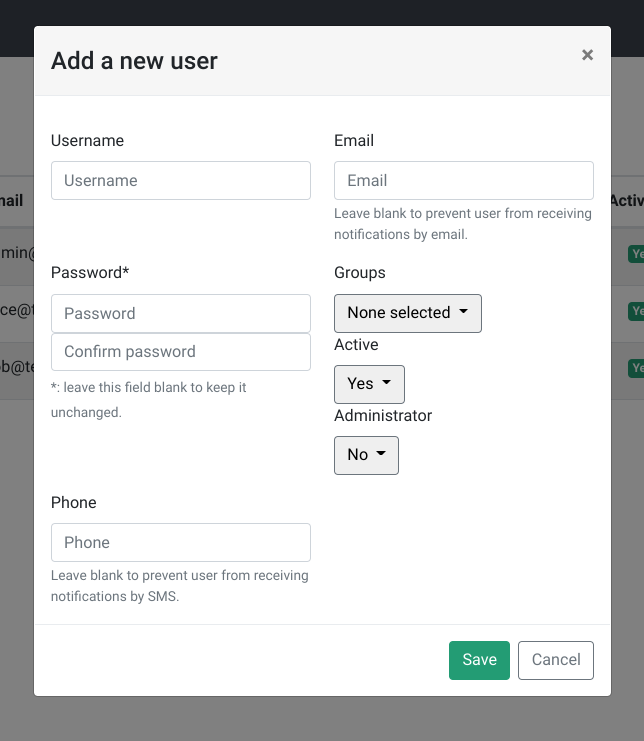
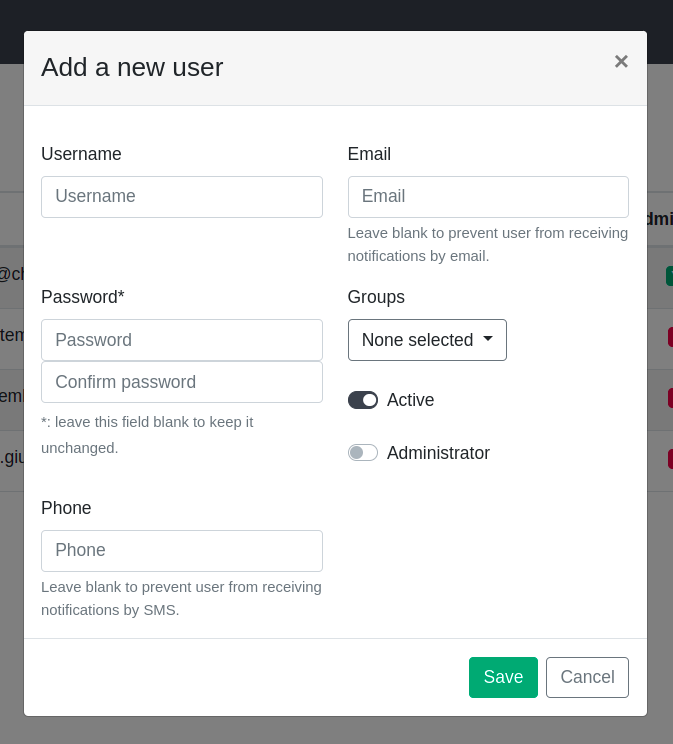
Replace select option by a switch for active and admin items in add user form
Edit screenshot in doc.

Changed region(s): [[0.0, 0.031, 1.0, 0.9622], [0.9938, 0.5897, 1.0, 0.6518]]

diff --git a/ui/temboardui/static/src/public/js/temboard.settings.user.js b/ui/temboardui/static/src/public/js/temboard.settings.user.js
@@ -279,16 +279,14 @@ function load_add_user_form(modal_id)
         descriptions[group['name']] = group['description'];
       }
       body_html += '      </select><br />';
-      body_html += '      <label for="selectActive" class="control-label">Active</label><br />';
-      body_html += '      <select id="selectActive">';
-      body_html += '        <option value="yes" selected>Yes</options>';
-      body_html += '        <option value="No">No</options>';
-      body_html += '      </select><br />';
-      body_html += '      <label for="selectAdmin" class="control-label">Administrator</label><br />';
-      body_html += '      <select id="selectAdmin">';
-      body_html += '        <option value="No" selected>No</options>';
-      body_html += '        <option value="yes">Yes</options>';
-      body_html += '      </select>';
+      body_html += '        <div class="custom-control custom-switch"><br />  ';
+      body_html += '          <input type="checkbox" class="custom-control-input" id="switchActive" checked>';
+      body_html += '          <label class="custom-control-label" for="switchActive">Active</label><br /> ';
+      body_html += '         </div> ';
+      body_html += '        <div class="custom-control custom-switch"><br />  ';
+      body_html += '          <input type="checkbox" class="custom-control-input" id="switchAdmin">';
+      body_html += '          <label class="custom-control-label" for="switchAdmin">Administrator</label><br /> ';
+      body_html += '         </div> ';
       body_html += '    </div>';
       body_html += '  </div>';
       body_html += '  <div class="row">';
@@ -320,9 +318,21 @@ function load_add_user_form(modal_id)
           return descriptions[value];
         }
       });
-      // Use multiselect style for Active & Admin selects.
-      $('#selectActive').multiselect(multiselectOptions);
-      $('#selectAdmin').multiselect(multiselectOptions);
+      // Update value for Active and Admin input
+      $('#switchActive').on('change', function() {
+        if ($(this).is(':checked')){
+          $(this).attr('value', 'yes');
+        } else{
+          $(this).attr('value', 'no');
+        }
+      });
+      $('#switchAdmin').on('change', function() {
+        if ($(this).is(':checked')){
+          $(this).attr('value', 'yes');
+        } else{
+          $(this).attr('value', 'no');
+        }
+      });
       $('#formAddUser').submit(function( event ) {
           event.preventDefault();
         send_add_user_form(modal_id);
@@ -351,8 +361,8 @@ function send_add_user_form(modal_id)
       'password': $('#inputPassword').val(),
       'password2': $('#inputPassword2').val(),
       'groups': $('#selectGroups').val(),
-      'is_active': $('#selectActive').val(),
-      'is_admin': $('#selectAdmin').val()
+      'is_active': $('#switchActive').val(),
+      'is_admin': $('#switchAdmin').val()
     }),
     async: true,
     contentType: "application/json",
